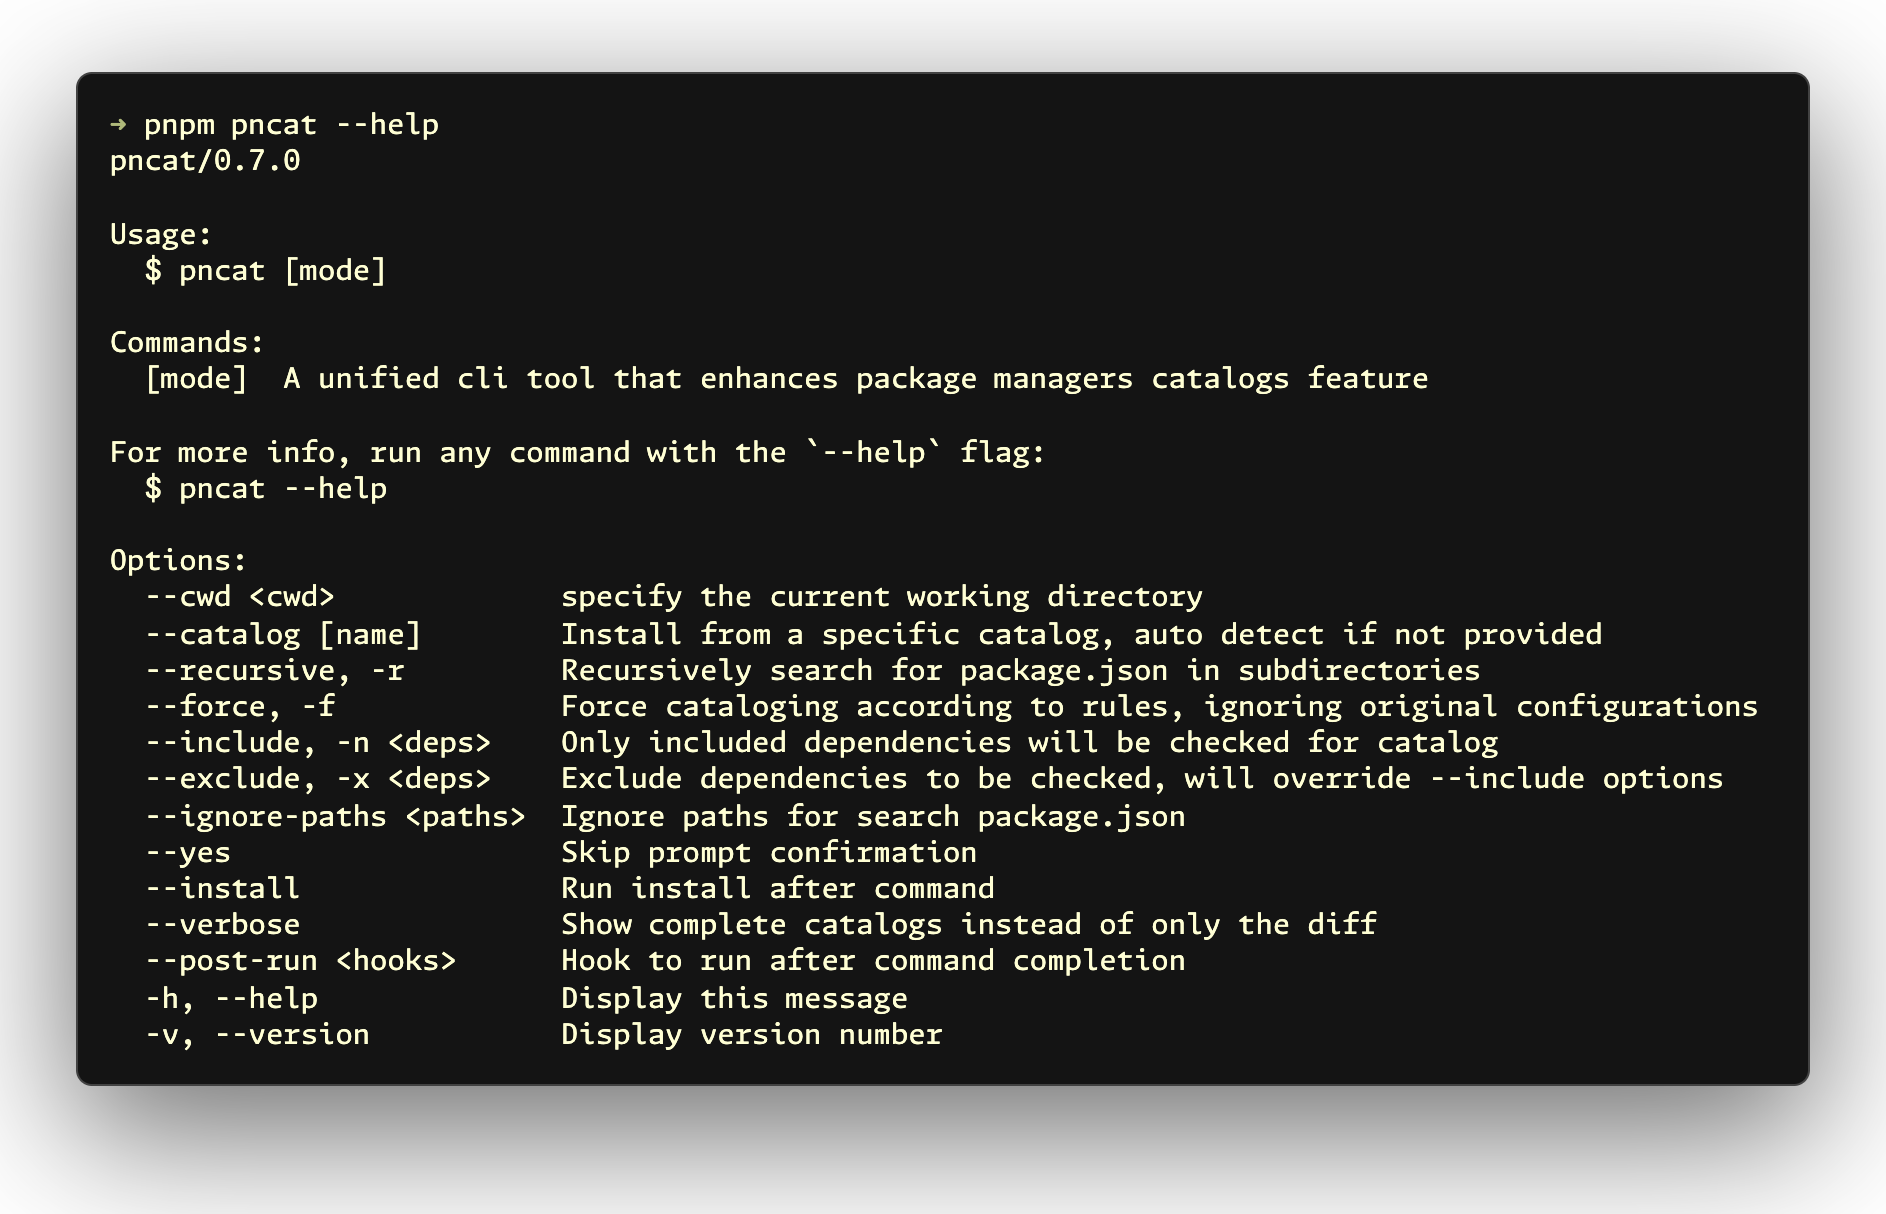
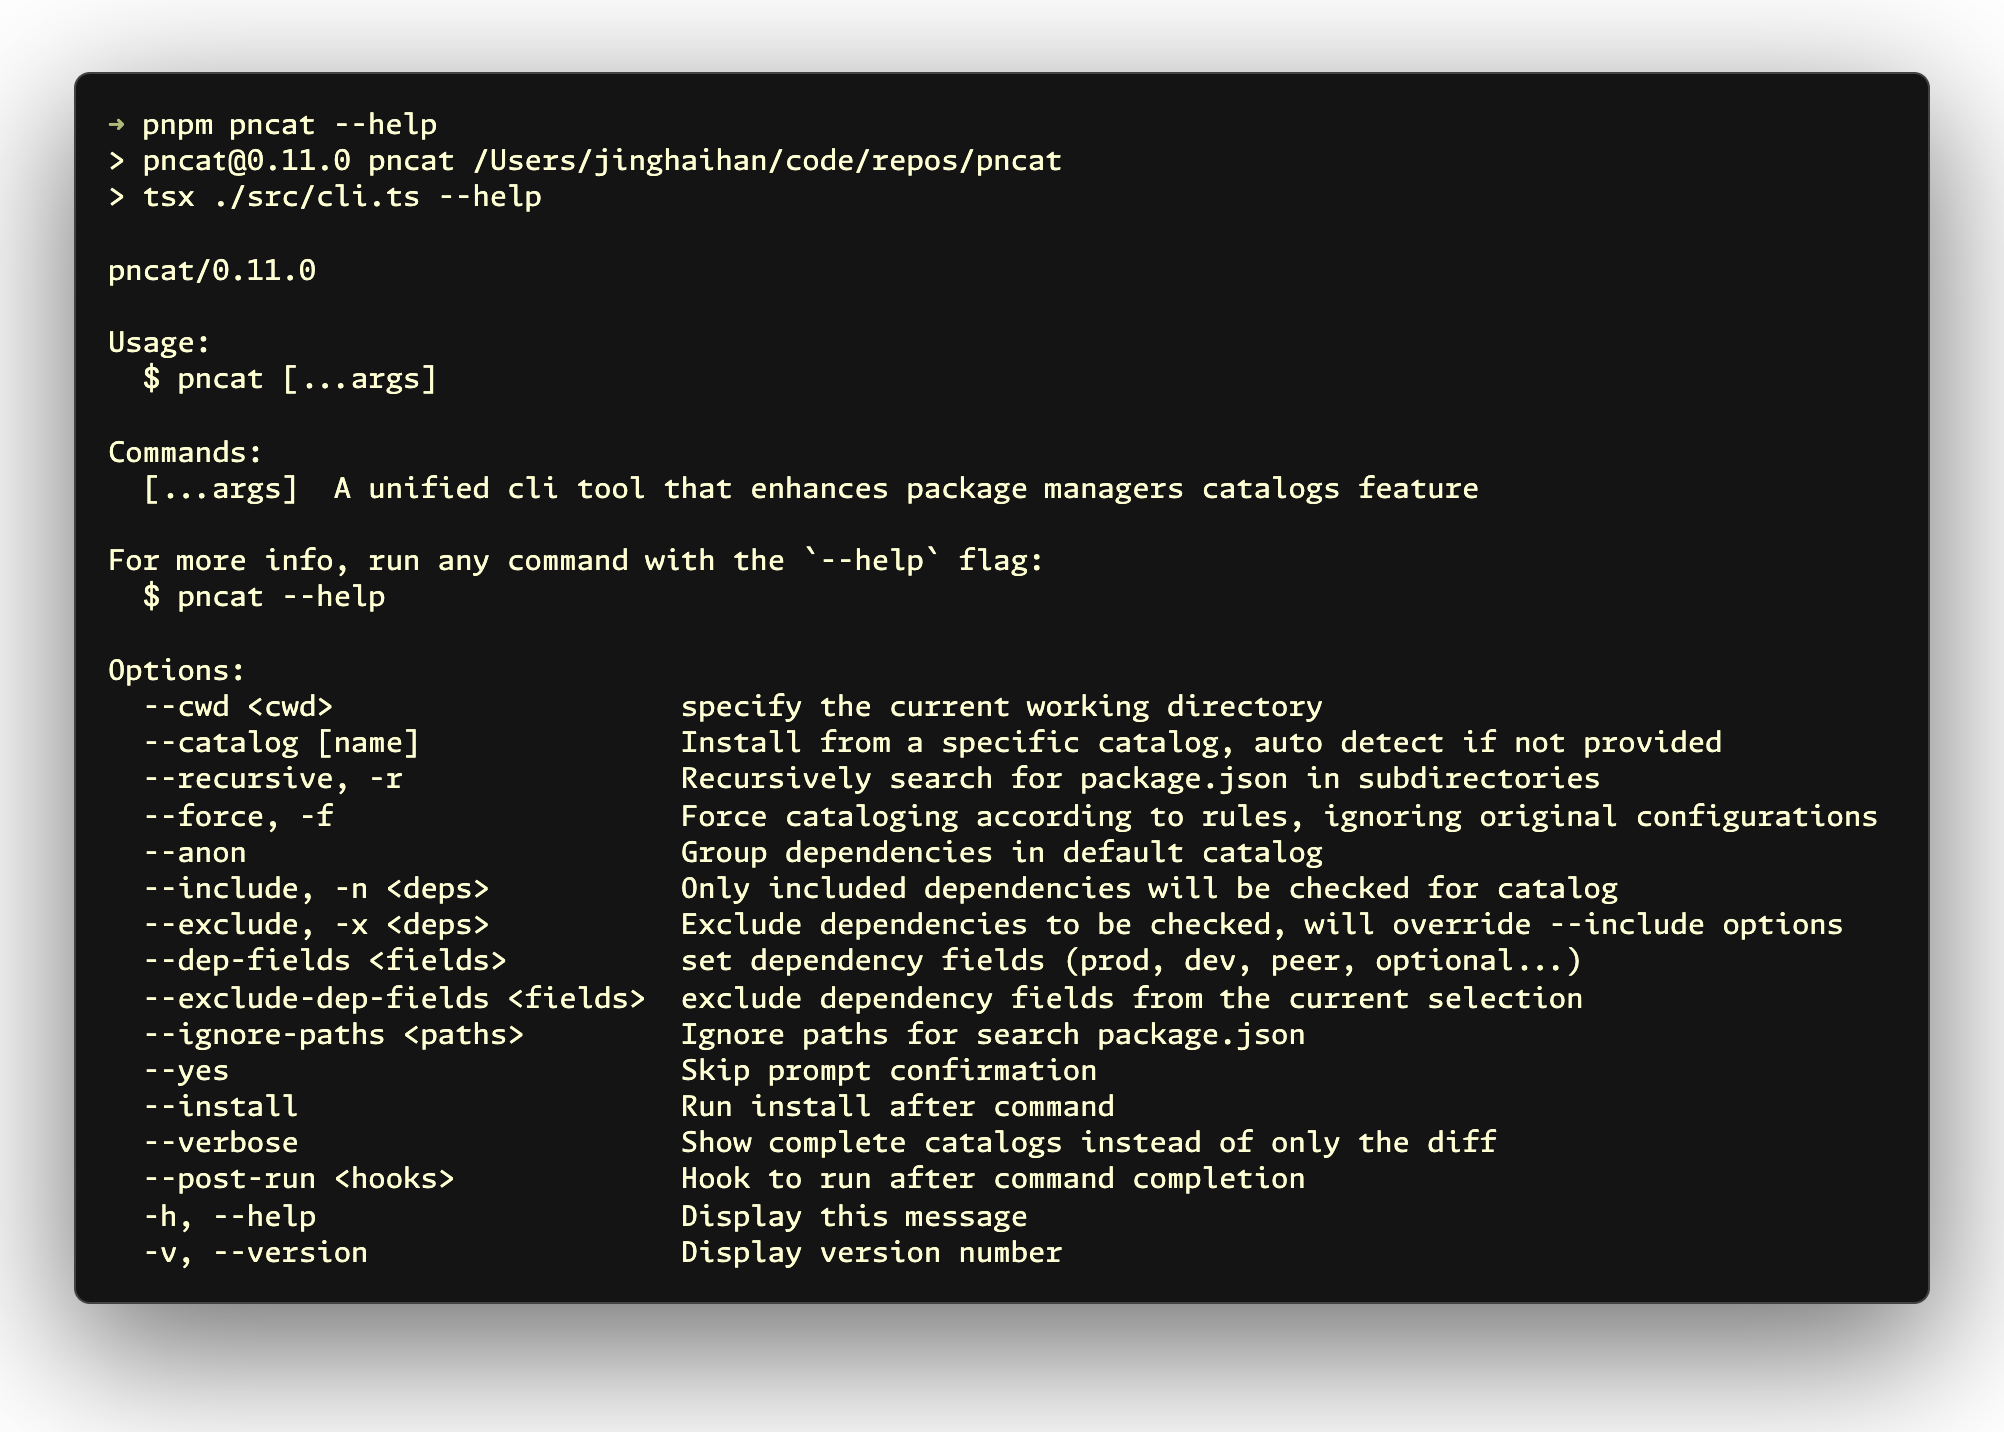
chore: update screenshot

Changed region(s): [[0.0308, 0.0305, 0.9841, 0.9143]]

diff --git a/src/cli.ts b/src/cli.ts
@@ -28,7 +28,7 @@ cli
   .option('--anon', 'Group dependencies in default catalog')
   .option('--include, -n <deps>', 'Only included dependencies will be checked for catalog')
   .option('--exclude, -x <deps>', 'Exclude dependencies to be checked, will override --include options')
-  .option('--dep-fields <fields>', 'set dependency fields (prod, dev, peer, optional, resolutions, overrides, pnpm-overrides)')
+  .option('--dep-fields <fields>', 'set dependency fields (prod, dev, peer, optional...)')
   .option('--exclude-dep-fields <fields>', 'exclude dependency fields from the current selection')
   .option('--ignore-paths <paths>', 'Ignore paths for search package.json')
   .option('--yes', 'Skip prompt confirmation')
